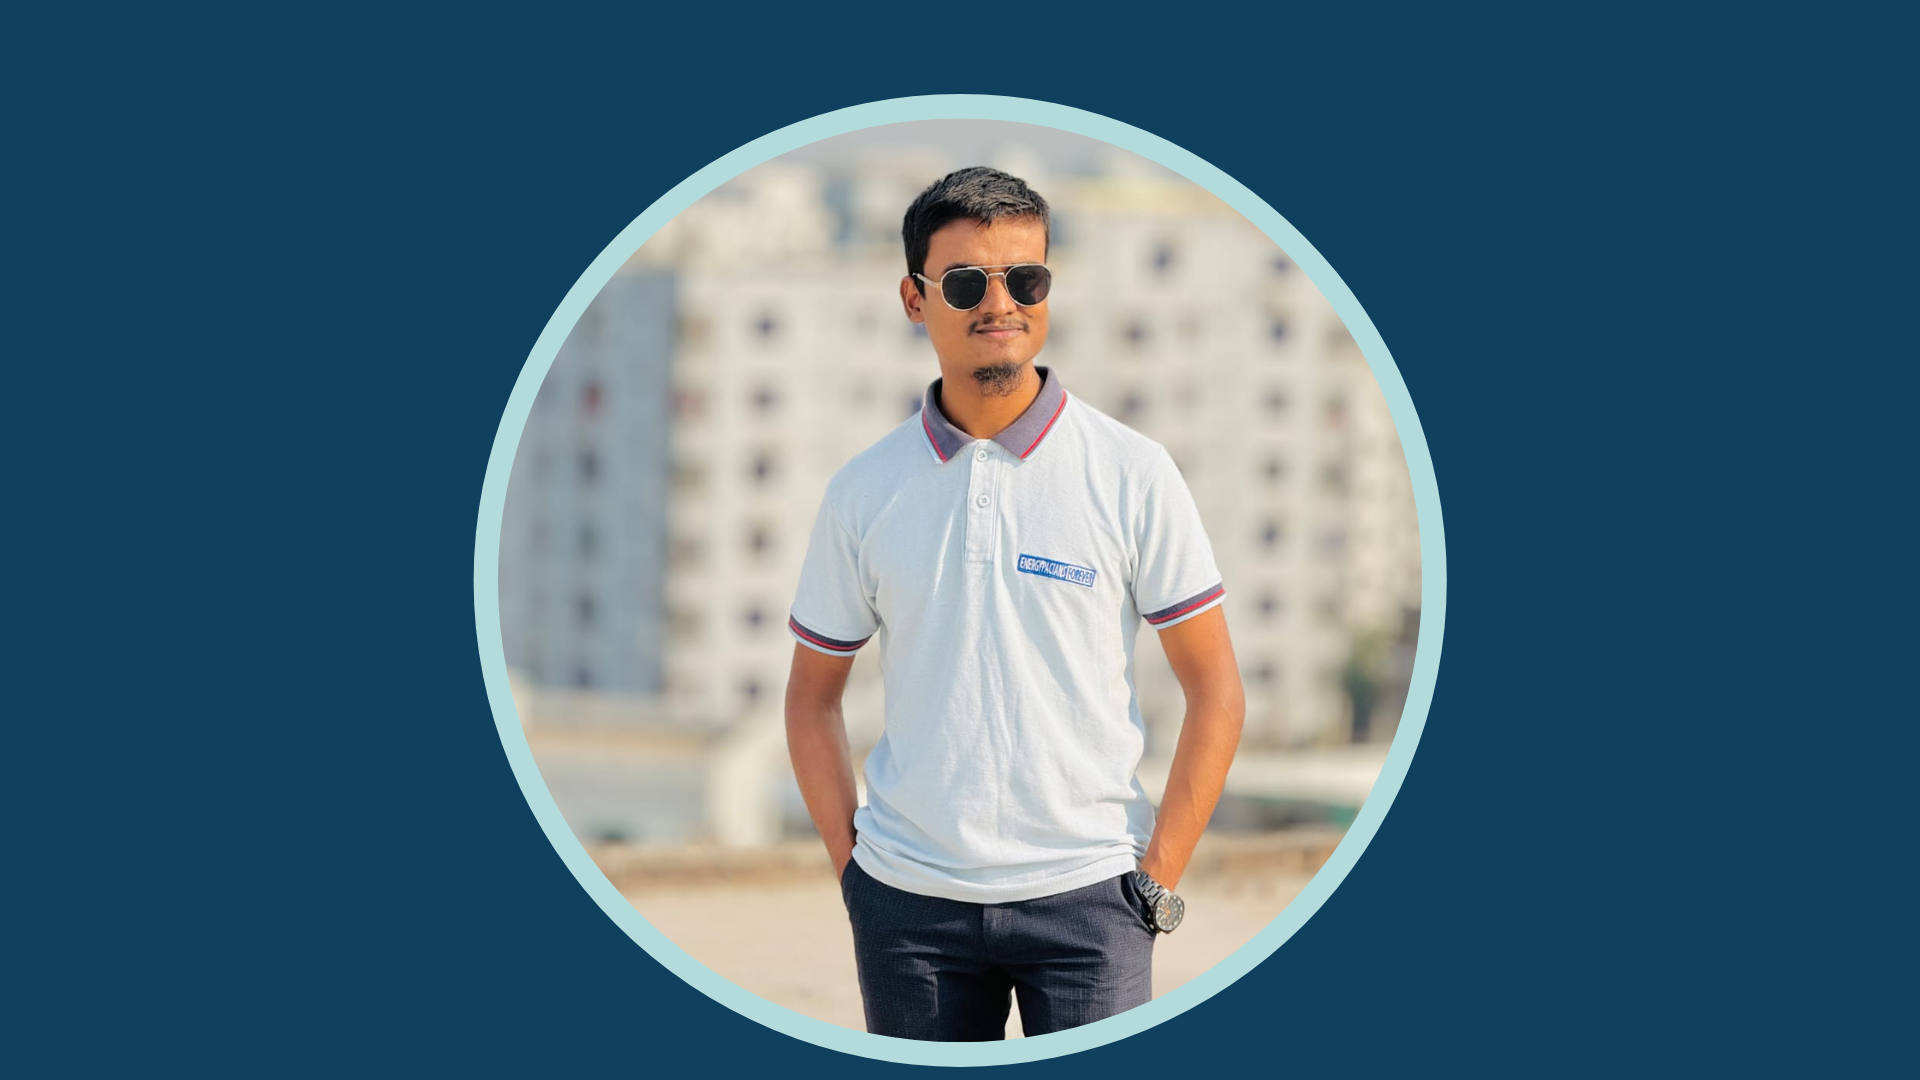
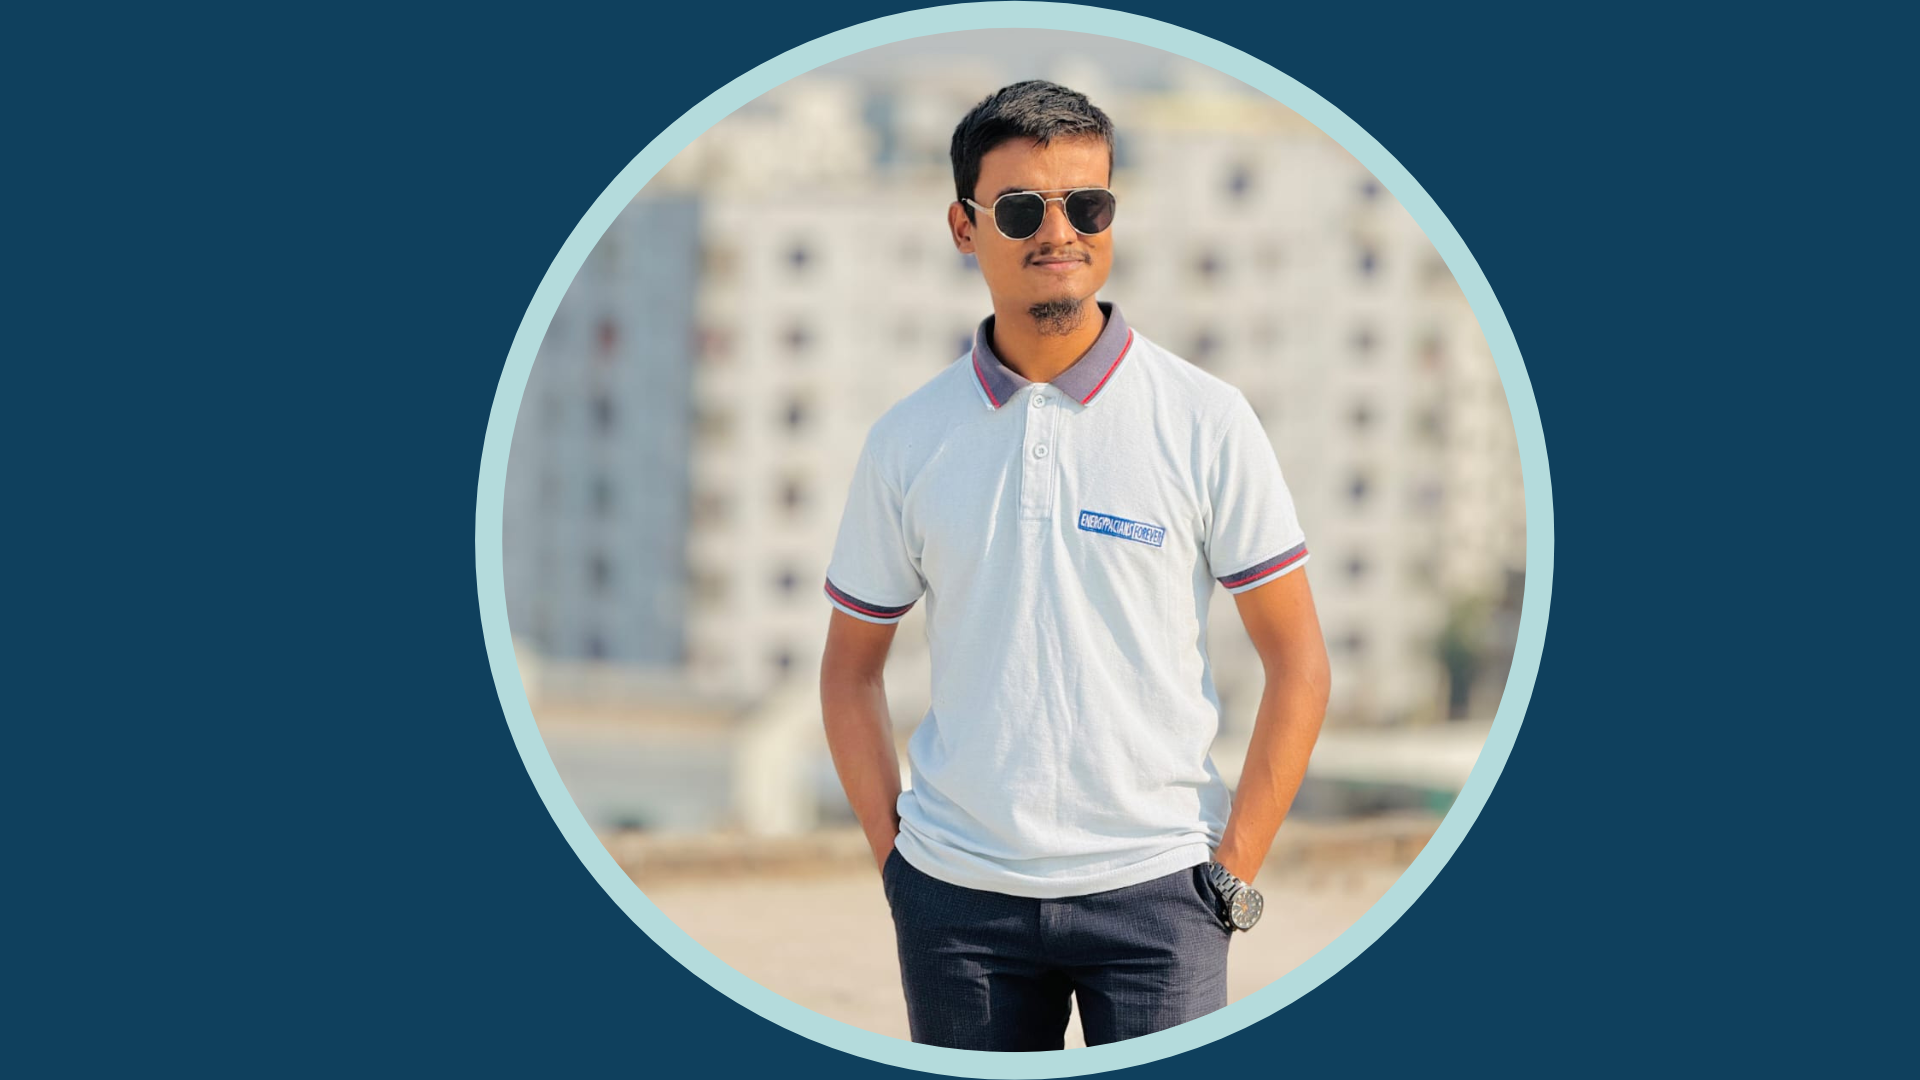
Home background update for mobile

Changed region(s): [[0.25, 0.0, 0.8125, 1.0]]

diff --git a/index.html b/index.html
@@ -4,7 +4,7 @@
 <head>
     <meta charset="UTF-8">
     <meta name="viewport" content="width=device-width, initial-scale=1.0">
-    <title>Portfolio</title>
+    <title>Rakib's Portfolio</title>
     <link rel="stylesheet" href="stylesheet.css">
     <link href='https://unpkg.com/boxicons@2.1.4/css/boxicons.min.css' rel='stylesheet'>
     <script src="https://unpkg.com/typed.js@3.0.0/dist/typed.umd.js"></script>
